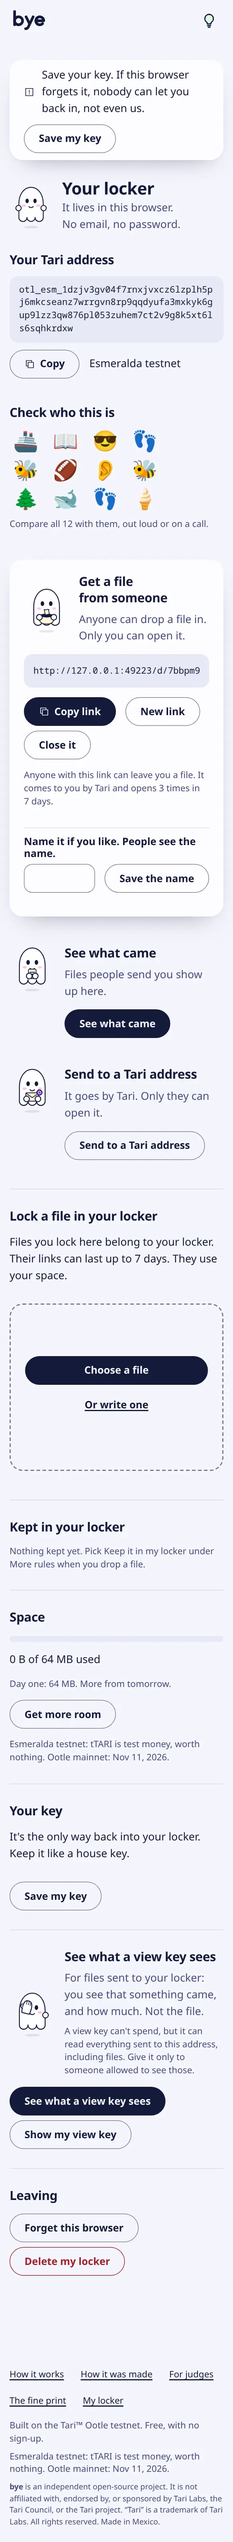
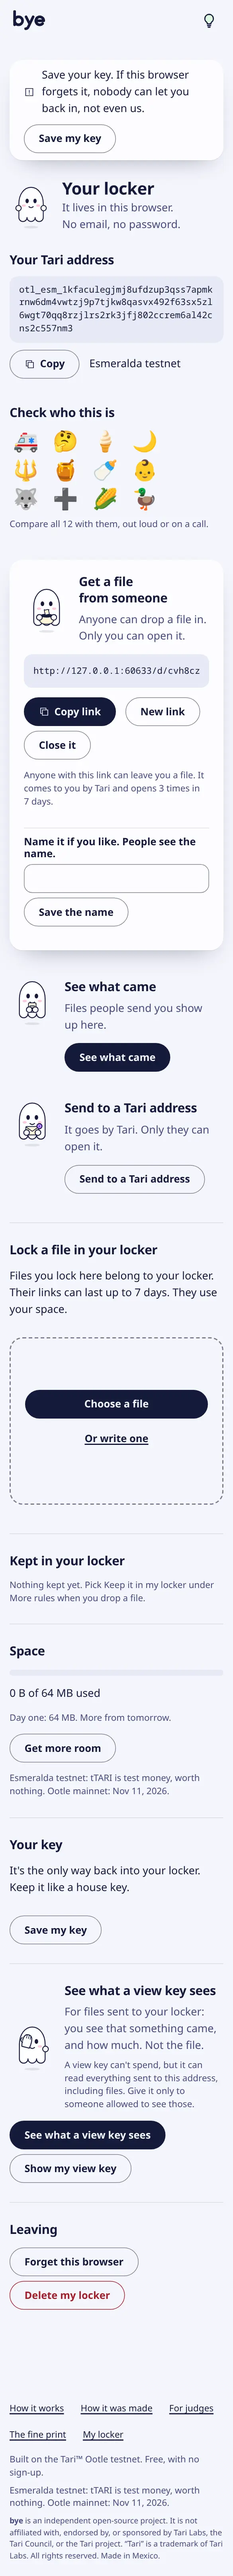
The opened secret and its file card on rounded raised panels (no hairline boxes); the drop's name field wraps under its button on a phone; shots retaken (UI flows ghost-screens, locker, home-text, dark: 75/75)

diff --git a/web/app/css/app.css b/web/app/css/app.css
@@ -64,8 +64,8 @@
   color: var(--fg); font: var(--t-code); font-size: clamp(15px, 2.4vw, 19px);
 }
 .a-inline-form { display: grid; gap: var(--s-2); padding-top: var(--s-3); border-top: 1px solid var(--hair); }
-.a-inline-form .a-row { flex-wrap: nowrap; }
-.a-inline-form .a-input { flex: 1 1 auto; min-width: 0; }
+.a-inline-form .a-row { flex-wrap: wrap; }
+.a-inline-form .a-input { flex: 1 1 14em; min-width: 0; }
 .a-inline-form .a-btn { flex: none; white-space: nowrap; }
 .a-zone { max-width: 720px; }
 .a-zone .md-root { margin-inline: 0; }
@@ -144,14 +144,14 @@
 .a-alarm { display: flex; gap: var(--s-3); align-items: center; }
 .a-alarm .a-icon { width: 32px; height: 32px; color: var(--exit-text); }
 .a-filename { font: var(--t-code); overflow-wrap: anywhere; }
-.a-filecard { display: grid; place-items: center; gap: var(--s-2); aspect-ratio: 4 / 3; max-width: 320px; border: 1px solid var(--line); background: var(--bg-raised); padding: var(--s-4); }
+.a-filecard { display: grid; place-items: center; gap: var(--s-2); aspect-ratio: 4 / 3; max-width: 320px; border-radius: var(--r-panel); background: var(--bg-raised); box-shadow: var(--shadow); padding: var(--s-4); }
 .a-filecard .a-icon { width: 40px; height: 40px; }
 .a-meta { font: var(--t-small); color: var(--fg-2); overflow-wrap: anywhere; }
 .a-what-you-see { display: grid; gap: var(--s-3); min-width: 0; }
-.a-what-you-see img, .a-what-you-see video { max-height: 70svh; width: auto; min-width: min(100%, 240px); border: 1px solid var(--hair); }
+.a-what-you-see img, .a-what-you-see video { max-height: 70svh; width: auto; min-width: min(100%, 240px); border-radius: var(--r-input); }
 .a-what-you-see audio { width: 100%; }
 .a-what-you-see pre {
-  max-height: 60svh; overflow: auto; padding: var(--s-4); border: 1px solid var(--line); background: var(--bg-raised);
+  max-height: 60svh; overflow: auto; padding: var(--s-4); border-radius: var(--r-input); background: var(--bg-raised); box-shadow: var(--shadow);
   font: var(--t-code); white-space: pre-wrap; overflow-wrap: anywhere;
 }
 .a-split { display: grid; gap: var(--s-5); }
